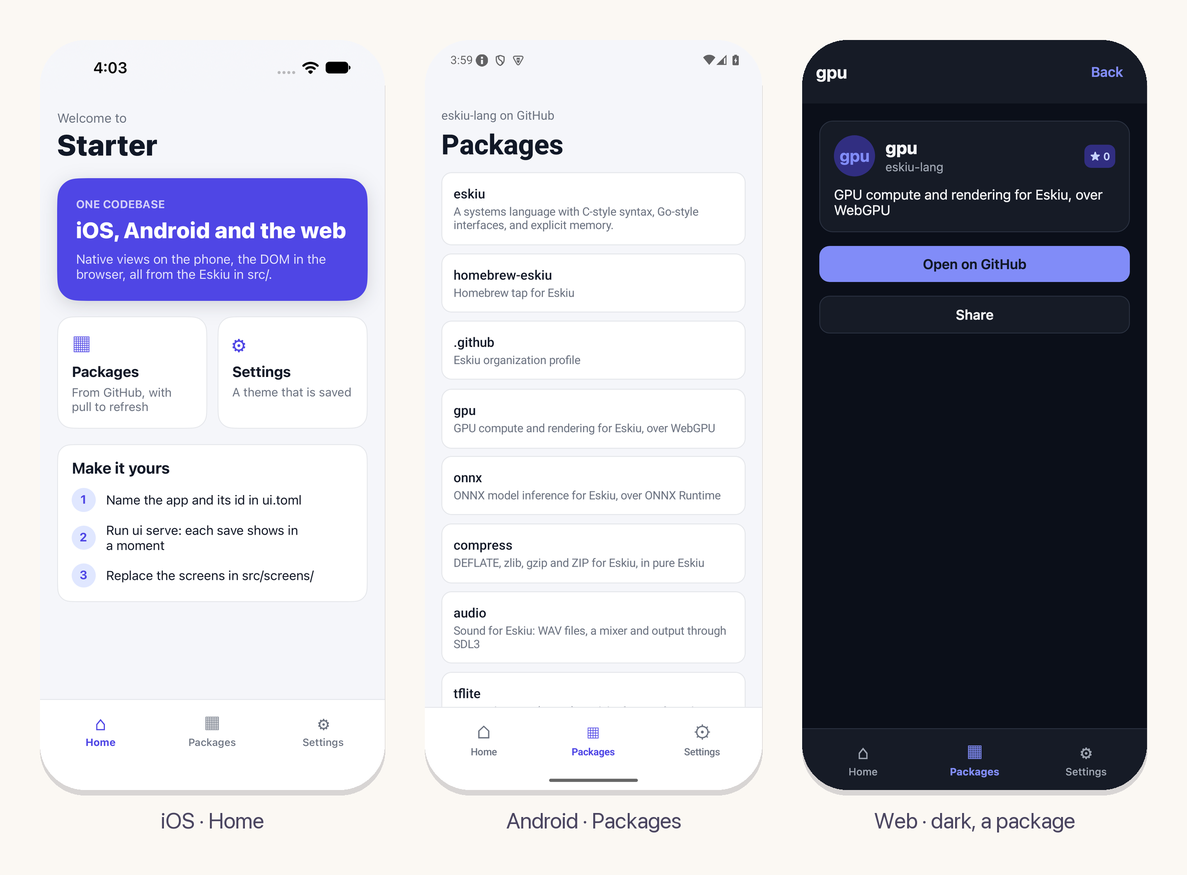
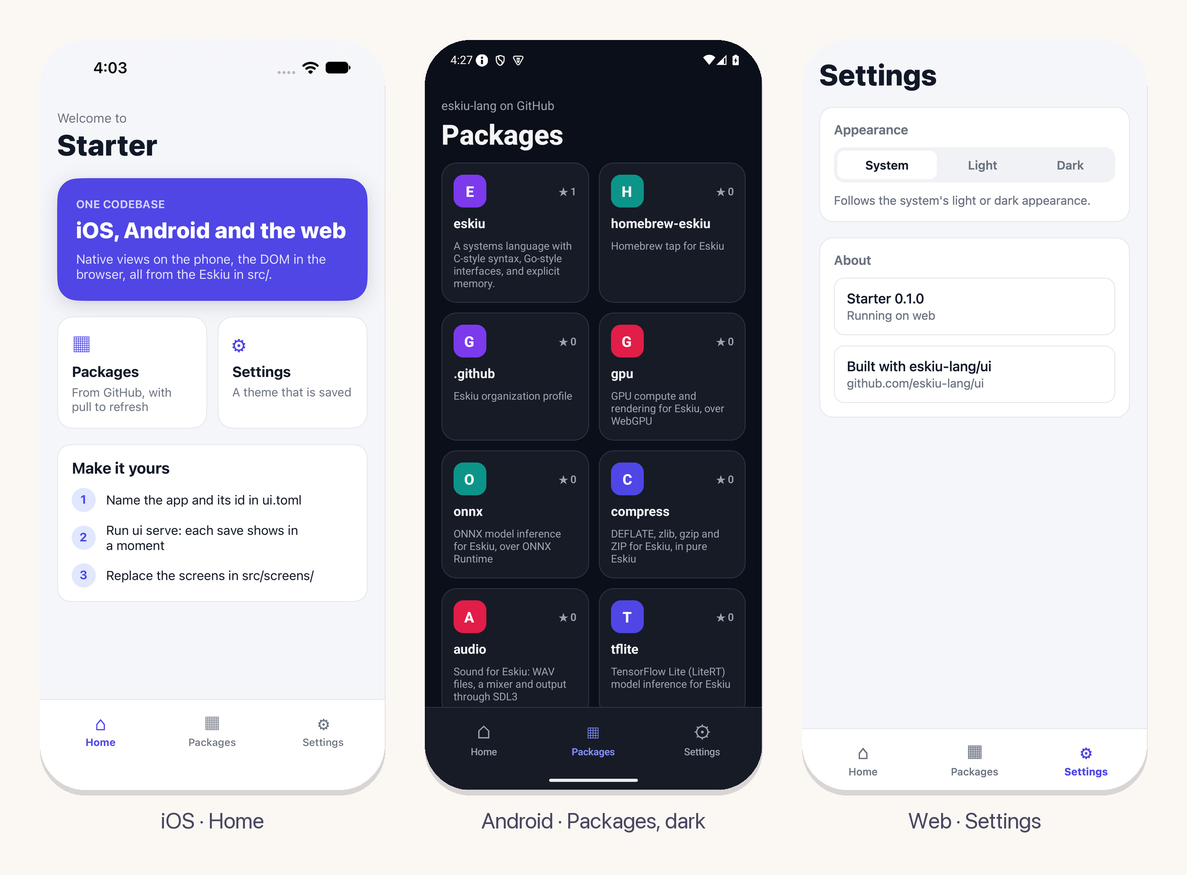
starter: the packages as a grid of cards

diff --git a/README.md b/README.md
@@ -18,7 +18,7 @@ bottom, a stack of screens with links into them, a list loaded from the network 
 refresh, a setting saved on the device, light and dark themes, and tests that run without a
 phone. It is one codebase for iOS, Android and the web.
 
-![The starter on iOS (Home), Android (the packages from GitHub) and the web (a package, in the dark theme)](assets/starter.png)
+![The starter on iOS (Home), Android (the packages from GitHub as a grid, in the dark theme) and the web (Settings)](assets/starter.png)
 
 ## Start
 
@@ -45,7 +45,7 @@ emscripten for the web, Xcode for iOS and the Android SDK for Android.
 | `src/app.esk` | The root: the theme, the routes and their screens, the tabs. |
 | `src/model.esk` | The state that outlives the screens: the router, the saved theme, the packages from GitHub (`ui_fetch` and `<json>`). |
 | `src/components/tabs.esk` | The tab bar along the bottom, and the screens' large titles. |
-| `src/screens/` | Home, Packages (pull to refresh), a package's screen (a route with a parameter), Settings. |
+| `src/screens/` | Home, Packages (a grid of cards, pull to refresh), a package's screen (a route with a parameter), Settings. |
 | `tests/app.esk` | The JSON parsing, and the app rendered with no device: each screen, a load that works and one that fails, the dark theme. `eskiuc test` runs it. |
 | `ui.toml` | The app's name, id and link scheme. |
 
